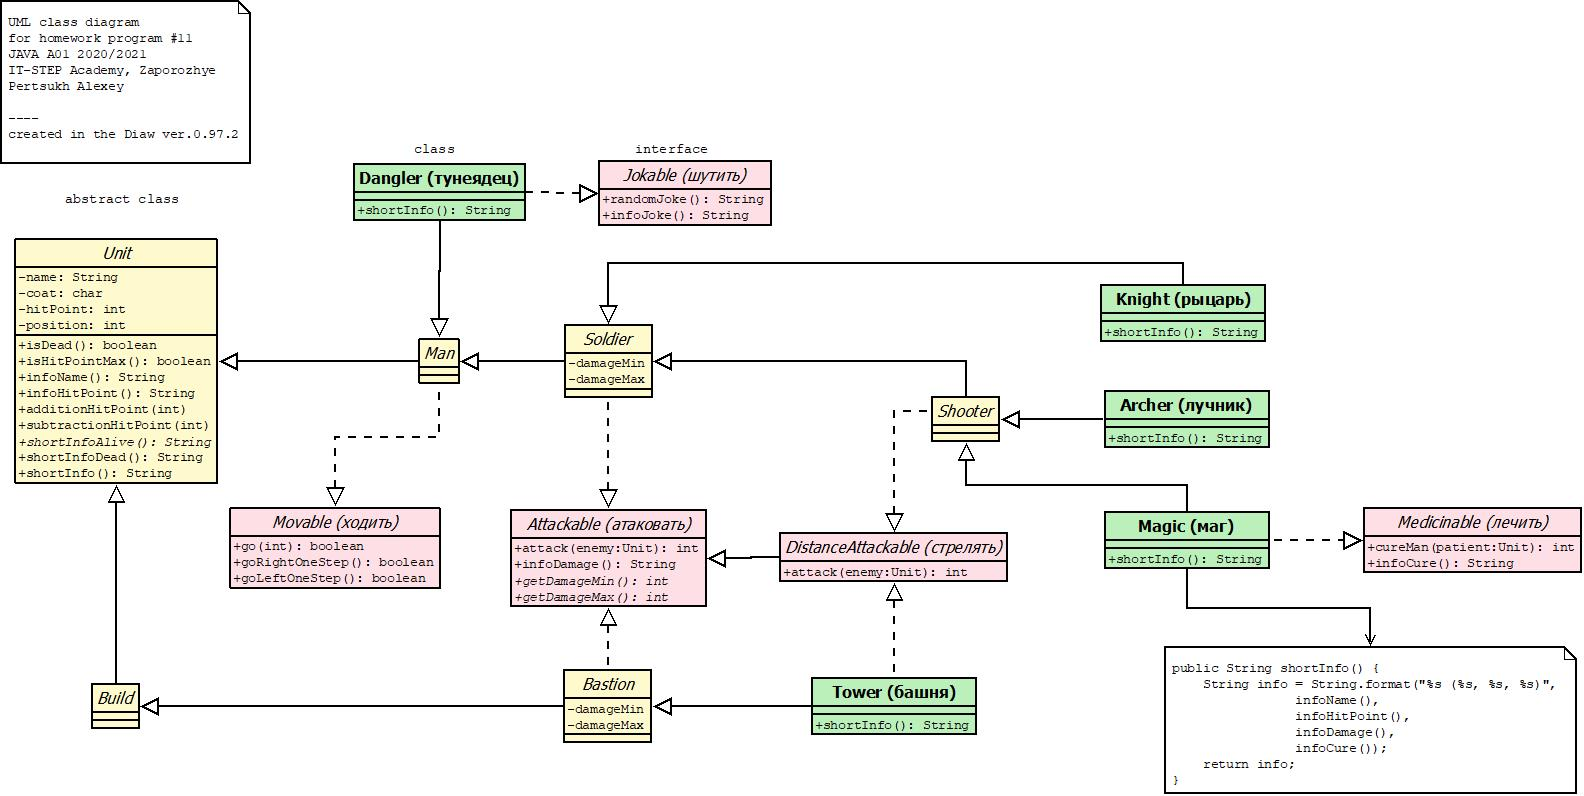
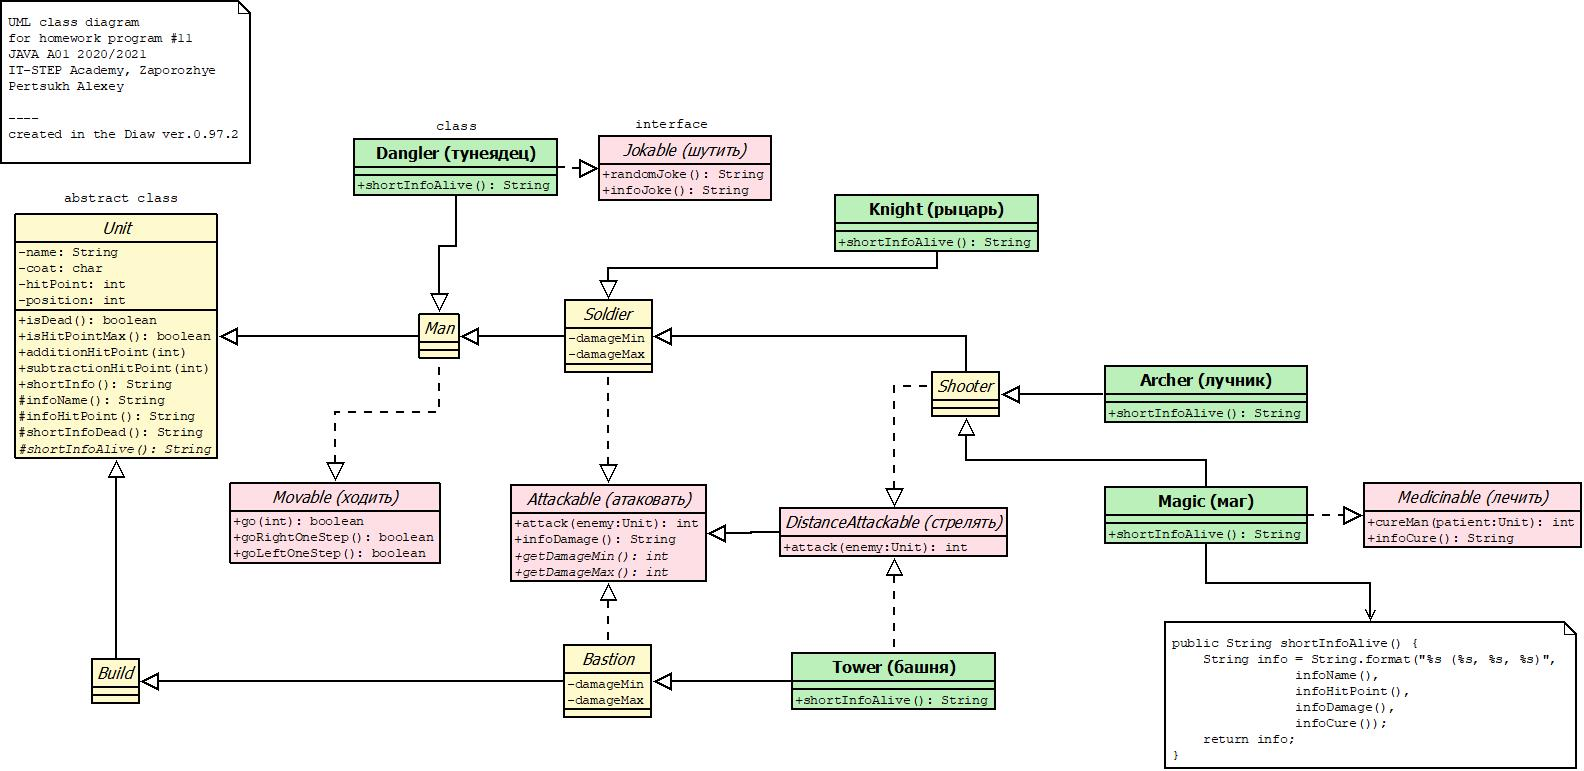
rename values, edit classes diagram

diff --git a/src/com/units/Unit.java b/src/com/units/Unit.java
@@ -74,17 +74,17 @@ public abstract class Unit {
         return (hitPoint >= maxHitPoint);
     }
 
-    public String infoHitPoint() {
+    protected String infoHitPoint() {
         return String.format("%c%d", CHAR_HP, hitPoint);
     }
 
-    public String infoName() {
+    protected String infoName() {
         return String.format("%c %-9s", coat, getName());
     }
 
-    public String shortInfoDead() {
-        String str = String.format("%s %s ", STR_DEAD_SYMBOL, getName());
-        return String.format(MASK_INFO, str) + " "; //не убирать пробел! он нужен для ровного цветного вывода убитого юнита
+    protected String shortInfoDead() {
+        String info = String.format("%s %s ", STR_DEAD_SYMBOL, getName());
+        return String.format(MASK_INFO, info) + " "; //не убирать пробел! он нужен для ровного цветного вывода убитого юнита
     }
 
     public String shortInfo() {
@@ -96,6 +96,6 @@ public abstract class Unit {
     }
 
     //абстрактные методы
-    abstract public String shortInfoAlive();
+    abstract protected String shortInfoAlive();
 
 }

diff --git a/src/com/units/Magic.java b/src/com/units/Magic.java
@@ -16,7 +16,7 @@ public class Magic extends Shooter implements Medicinable {
     }
 
     @Override
-    public String shortInfoAlive() {
+    protected String shortInfoAlive() {
         String info = String.format("%s (%s, %s, %s)", infoName(), infoHitPoint(), infoDamage(), infoCure());
         return String.format(MASK_INFO, info);
     }

diff --git a/src/com/units/Tower.java b/src/com/units/Tower.java
@@ -15,7 +15,7 @@ public class Tower extends Bastion implements DistanceAttackable {
     }
 
     @Override
-    public String shortInfoAlive() {
+    protected String shortInfoAlive() {
         String info = String.format("%s (%s, %s)", infoName(), infoHitPoint(), infoDamage());
         return String.format(MASK_INFO, info);
     }

diff --git a/src/com/units/Dangler.java b/src/com/units/Dangler.java
@@ -14,7 +14,7 @@ public class Dangler extends Man implements Jokable {
     }
 
     @Override
-    public String shortInfoAlive() {
+    protected String shortInfoAlive() {
         String info = String.format("%s (%s, %s)", infoName(), infoHitPoint(), infoJoke());
         return String.format(MASK_INFO, info);
     }

diff --git a/src/com/units/Archer.java b/src/com/units/Archer.java
@@ -13,7 +13,7 @@ public class Archer extends Shooter {
     }
 
     @Override
-    public String shortInfoAlive() {
+    protected String shortInfoAlive() {
         String info = String.format("%s (%s, %s)", infoName(), infoHitPoint(), infoDamage());
         return String.format(MASK_INFO, info);
     }

diff --git a/src/com/units/Knight.java b/src/com/units/Knight.java
@@ -13,7 +13,7 @@ public class Knight extends Soldier {
     }
 
     @Override
-    public String shortInfoAlive() {
+    protected String shortInfoAlive() {
         String info = String.format("%s (%s, %s)", infoName(), infoHitPoint(), infoDamage());
         return String.format(MASK_INFO, info);
     }
